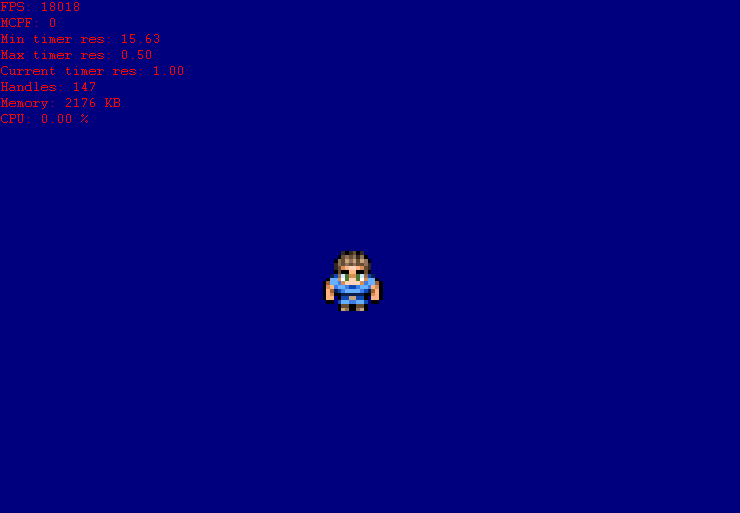
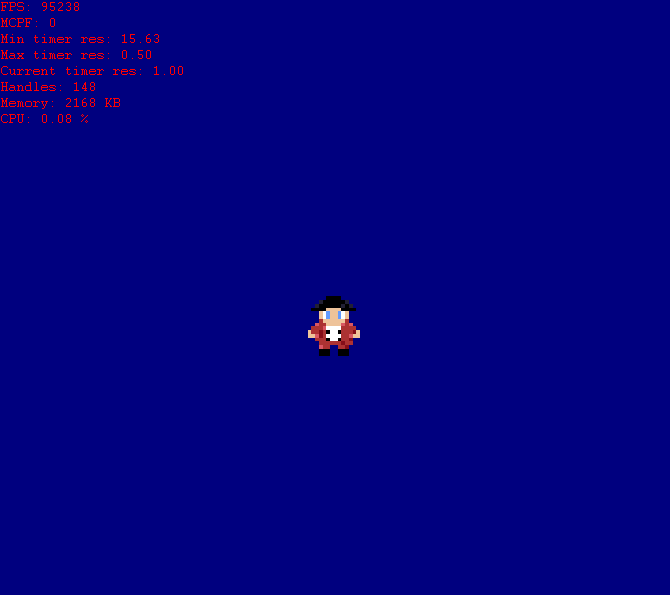
readme and comments updated

Changed region(s): [[0.0, 0.0, 0.2388, 0.2495], [0.4179, 0.4678, 0.5373, 0.6238], [0.209, 0.0936, 0.2687, 0.1559]]

diff --git a/win32_game/src/main.c b/win32_game/src/main.c
@@ -3,7 +3,8 @@
 * Ryan Ries on YouTube!!!!
 * The following code originates from both Casey Muratori's and Ryan Ries' YouTube video series. 
 * 
-*	*** THE ASSETS IN THIS CODEBASE BELONG ENTIRELY TO RYAN RIES. ***
+*	*** NOTE: SOME ASSETS IN THIS CODEBASE BELONG TO RYAN RIES. ***
+*	*** THE RED CHARACTER SPRITES ARE MADE BY ME.				***
 * 
 * I claim none of this code as my own, the brains behind it are theirs, though I do
 * plan to expand off into my own way of coding maybe using this as a base.

diff --git a/README.md b/README.md
@@ -4,7 +4,8 @@
 * Ryan Ries on YouTube!!!!
 * The following code originates from both Casey Muratori's and Ryan Ries' YouTube video series. 
 * 
-*	*** THE ASSETS IN THIS CODEBASE BELONG ENTIRELY TO RYAN RIES. ***
+*	*** NOTE: SOME ASSETS IN THIS CODEBASE BELONG TO RYAN RIES. ***
+*	*** THE RED CHARACTER SPRITES ARE MADE BY ME.				***
 * 
 * I claim none of this code as my own, the brains behind it are theirs, though I do
 * plan to expand off into my own way of coding maybe using this as a base.
